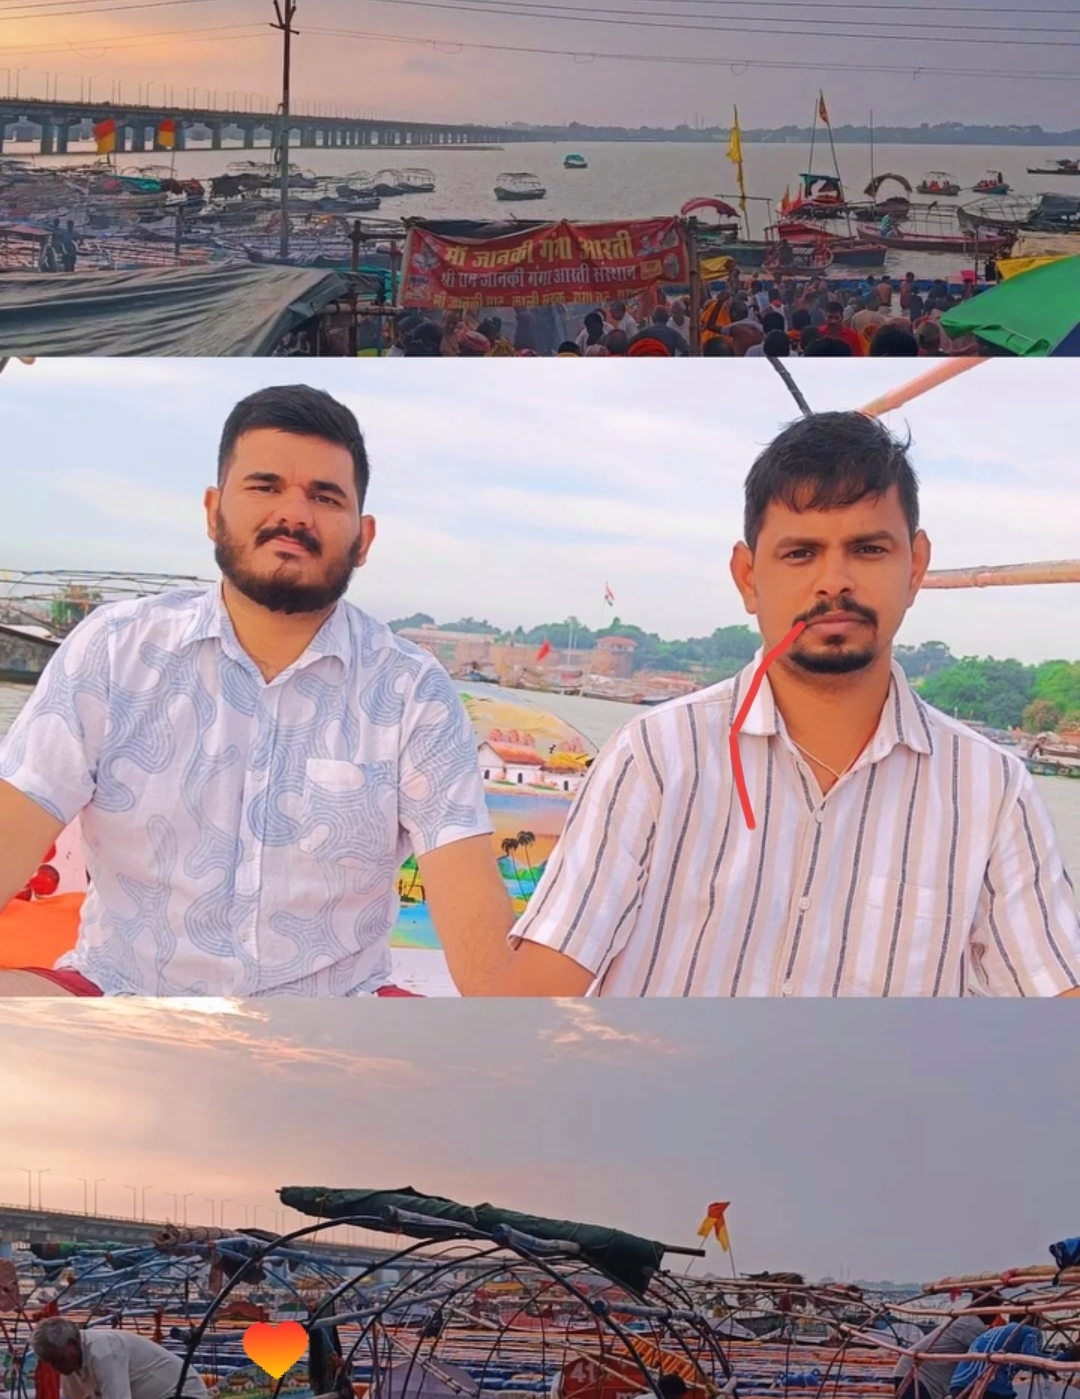
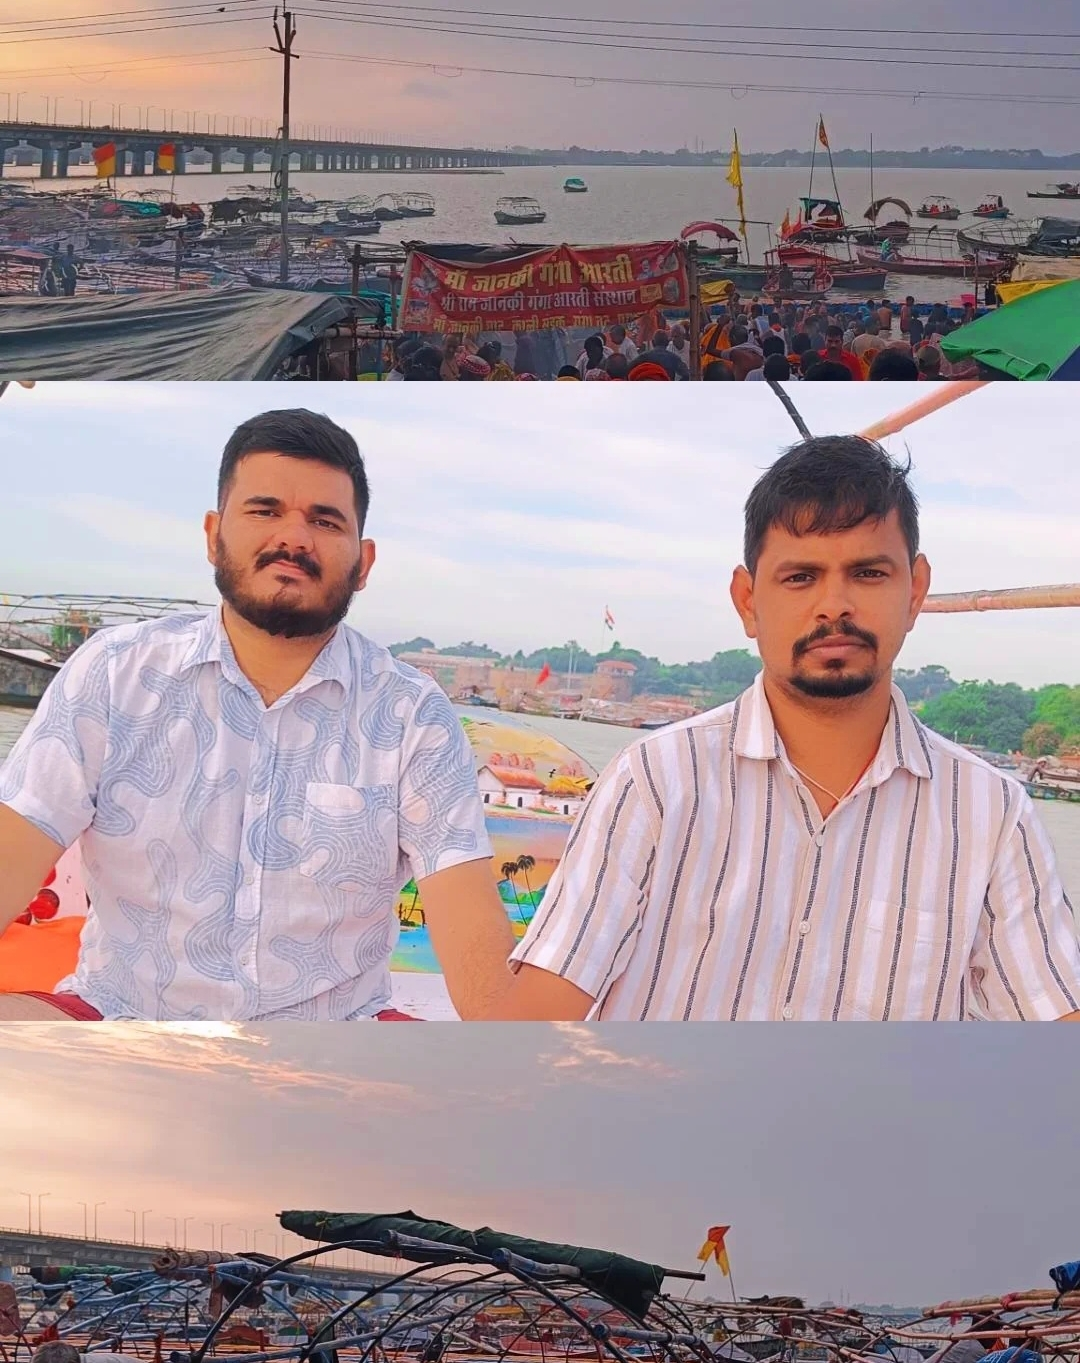
scroller update

diff --git a/components/HorizontalCardScroller.tsx b/components/HorizontalCardScroller.tsx
@@ -56,53 +56,77 @@ export function HorizontalCardScroller({ variant, cards }: HorizontalCardScrolle
     maxHeight: `${cards.length * 120}px`,
   } as const;
 
-  const renderCard = (card: Card, idx: number, fullWidthMobile: boolean) => (
-    <div
-      key={idx}
-      className={`${fullWidthMobile ? `w-full ${cardHeight}` : `${cardWidth} ${cardHeight}`} flex-shrink-0 rounded-2xl overflow-hidden bg-surface border border-border hover:scale-[1.02] transition-transform duration-300 cursor-pointer flex flex-col`}
-    >
-      <div className={`${imageHeight} relative flex-shrink-0 w-full overflow-hidden bg-gray-200`}>
-        {variant === 'work' ? (
-          <img
-            src={card.image}
-            alt={card.title}
-            className="w-full h-full object-cover"
-          />
-        ) : (
-          <Image
-            src={card.image}
-            alt={card.title}
-            fill
-            className="object-cover"
-          />
-        )}
-      </div>
+  const renderCard = (card: Card, idx: number, fullWidthMobile: boolean) => {
+    const isCompactCard = variant === 'poster' || variant === 'travel';
 
-      <div className="bg-surface px-5 py-4 flex flex-col justify-between flex-1 min-h-0">
-        <div className="min-w-0">
-          <h3 className="font-display text-lg text-ink leading-snug">
-            {card.title}
-          </h3>
-          {(card.description || card.caption) && (
-            <p className="font-body text-sm text-ink2 mt-1 leading-relaxed">
-              {card.description || card.caption}
-            </p>
+    const cardShellClass = [
+      fullWidthMobile ? 'w-full' : cardWidth,
+      isCompactCard ? '' : cardHeight,
+      'flex-shrink-0 rounded-2xl overflow-hidden bg-surface border border-border',
+      'hover:scale-[1.02] transition-transform duration-300 cursor-pointer flex flex-col',
+    ]
+      .filter(Boolean)
+      .join(' ');
+
+    return (
+      <div key={idx} className={cardShellClass}>
+        {variant === 'work' ? (
+          <div className={`${imageHeight} relative flex-shrink-0 w-full overflow-hidden bg-gray-200`}>
+            <img
+              src={card.image}
+              alt={card.title}
+              className="w-full h-full object-cover"
+            />
+          </div>
+        ) : (
+          <div className="relative w-full shrink-0 aspect-[4/5] overflow-hidden">
+            <Image
+              src={card.image}
+              alt={card.title}
+              fill
+              className="object-cover"
+            />
+          </div>
+        )}
+
+        <div
+          className={
+            isCompactCard
+              ? 'bg-surface p-4 flex flex-col gap-1'
+              : 'bg-surface px-5 py-4 flex flex-col justify-between flex-1 min-h-0'
+          }
+        >
+          <div className={`min-w-0 ${isCompactCard ? 'flex flex-col gap-1' : ''}`}>
+            <h3 className="font-display text-lg text-ink leading-snug">
+              {card.title}
+            </h3>
+            {(card.description || card.caption) && (
+              <p
+                className={`font-body text-sm text-ink2 leading-relaxed ${
+                  isCompactCard ? '' : 'mt-1'
+                }`}
+              >
+                {card.description || card.caption}
+              </p>
+            )}
+          </div>
+
+          {card.link && card.linkLabel && (
+            <a
+              href={card.link}
+              target="_blank"
+              rel="noopener noreferrer"
+              className={`text-accent text-sm font-medium hover:underline inline-flex items-center gap-1 w-fit ${
+                isCompactCard ? 'mt-2' : 'mt-3'
+              }`}
+            >
+              {card.linkLabel} <span>→</span>
+            </a>
           )}
         </div>
-
-        {card.link && card.linkLabel && (
-          <a
-            href={card.link}
-            target="_blank"
-            rel="noopener noreferrer"
-            className="text-accent text-sm font-medium hover:underline mt-3 inline-flex items-center gap-1 w-fit"
-          >
-            {card.linkLabel} <span>→</span>
-          </a>
-        )}
       </div>
-    </div>
-  );
+    );
+  };
 
   return (
     <>

diff --git a/components/Footer.tsx b/components/Footer.tsx
@@ -8,7 +8,7 @@ export function Footer() {
         <div className="min-w-0 max-w-full md:max-w-md">
           <h3 className="font-display text-xl text-white">Saurabh Shanbhag</h3>
           <p className="mt-1 text-sm text-white/50">
-            MBA Student · UI/UX Designer · Web Developer
+            MBA Student · E-commerce & Growth Analyst · UI/UX Designer · Web Developer · Quality Control Analyst
           </p>
           <p className="mt-5 text-sm leading-relaxed break-words text-white/45">
             Bengaluru-based — building thoughtful interfaces and web experiences